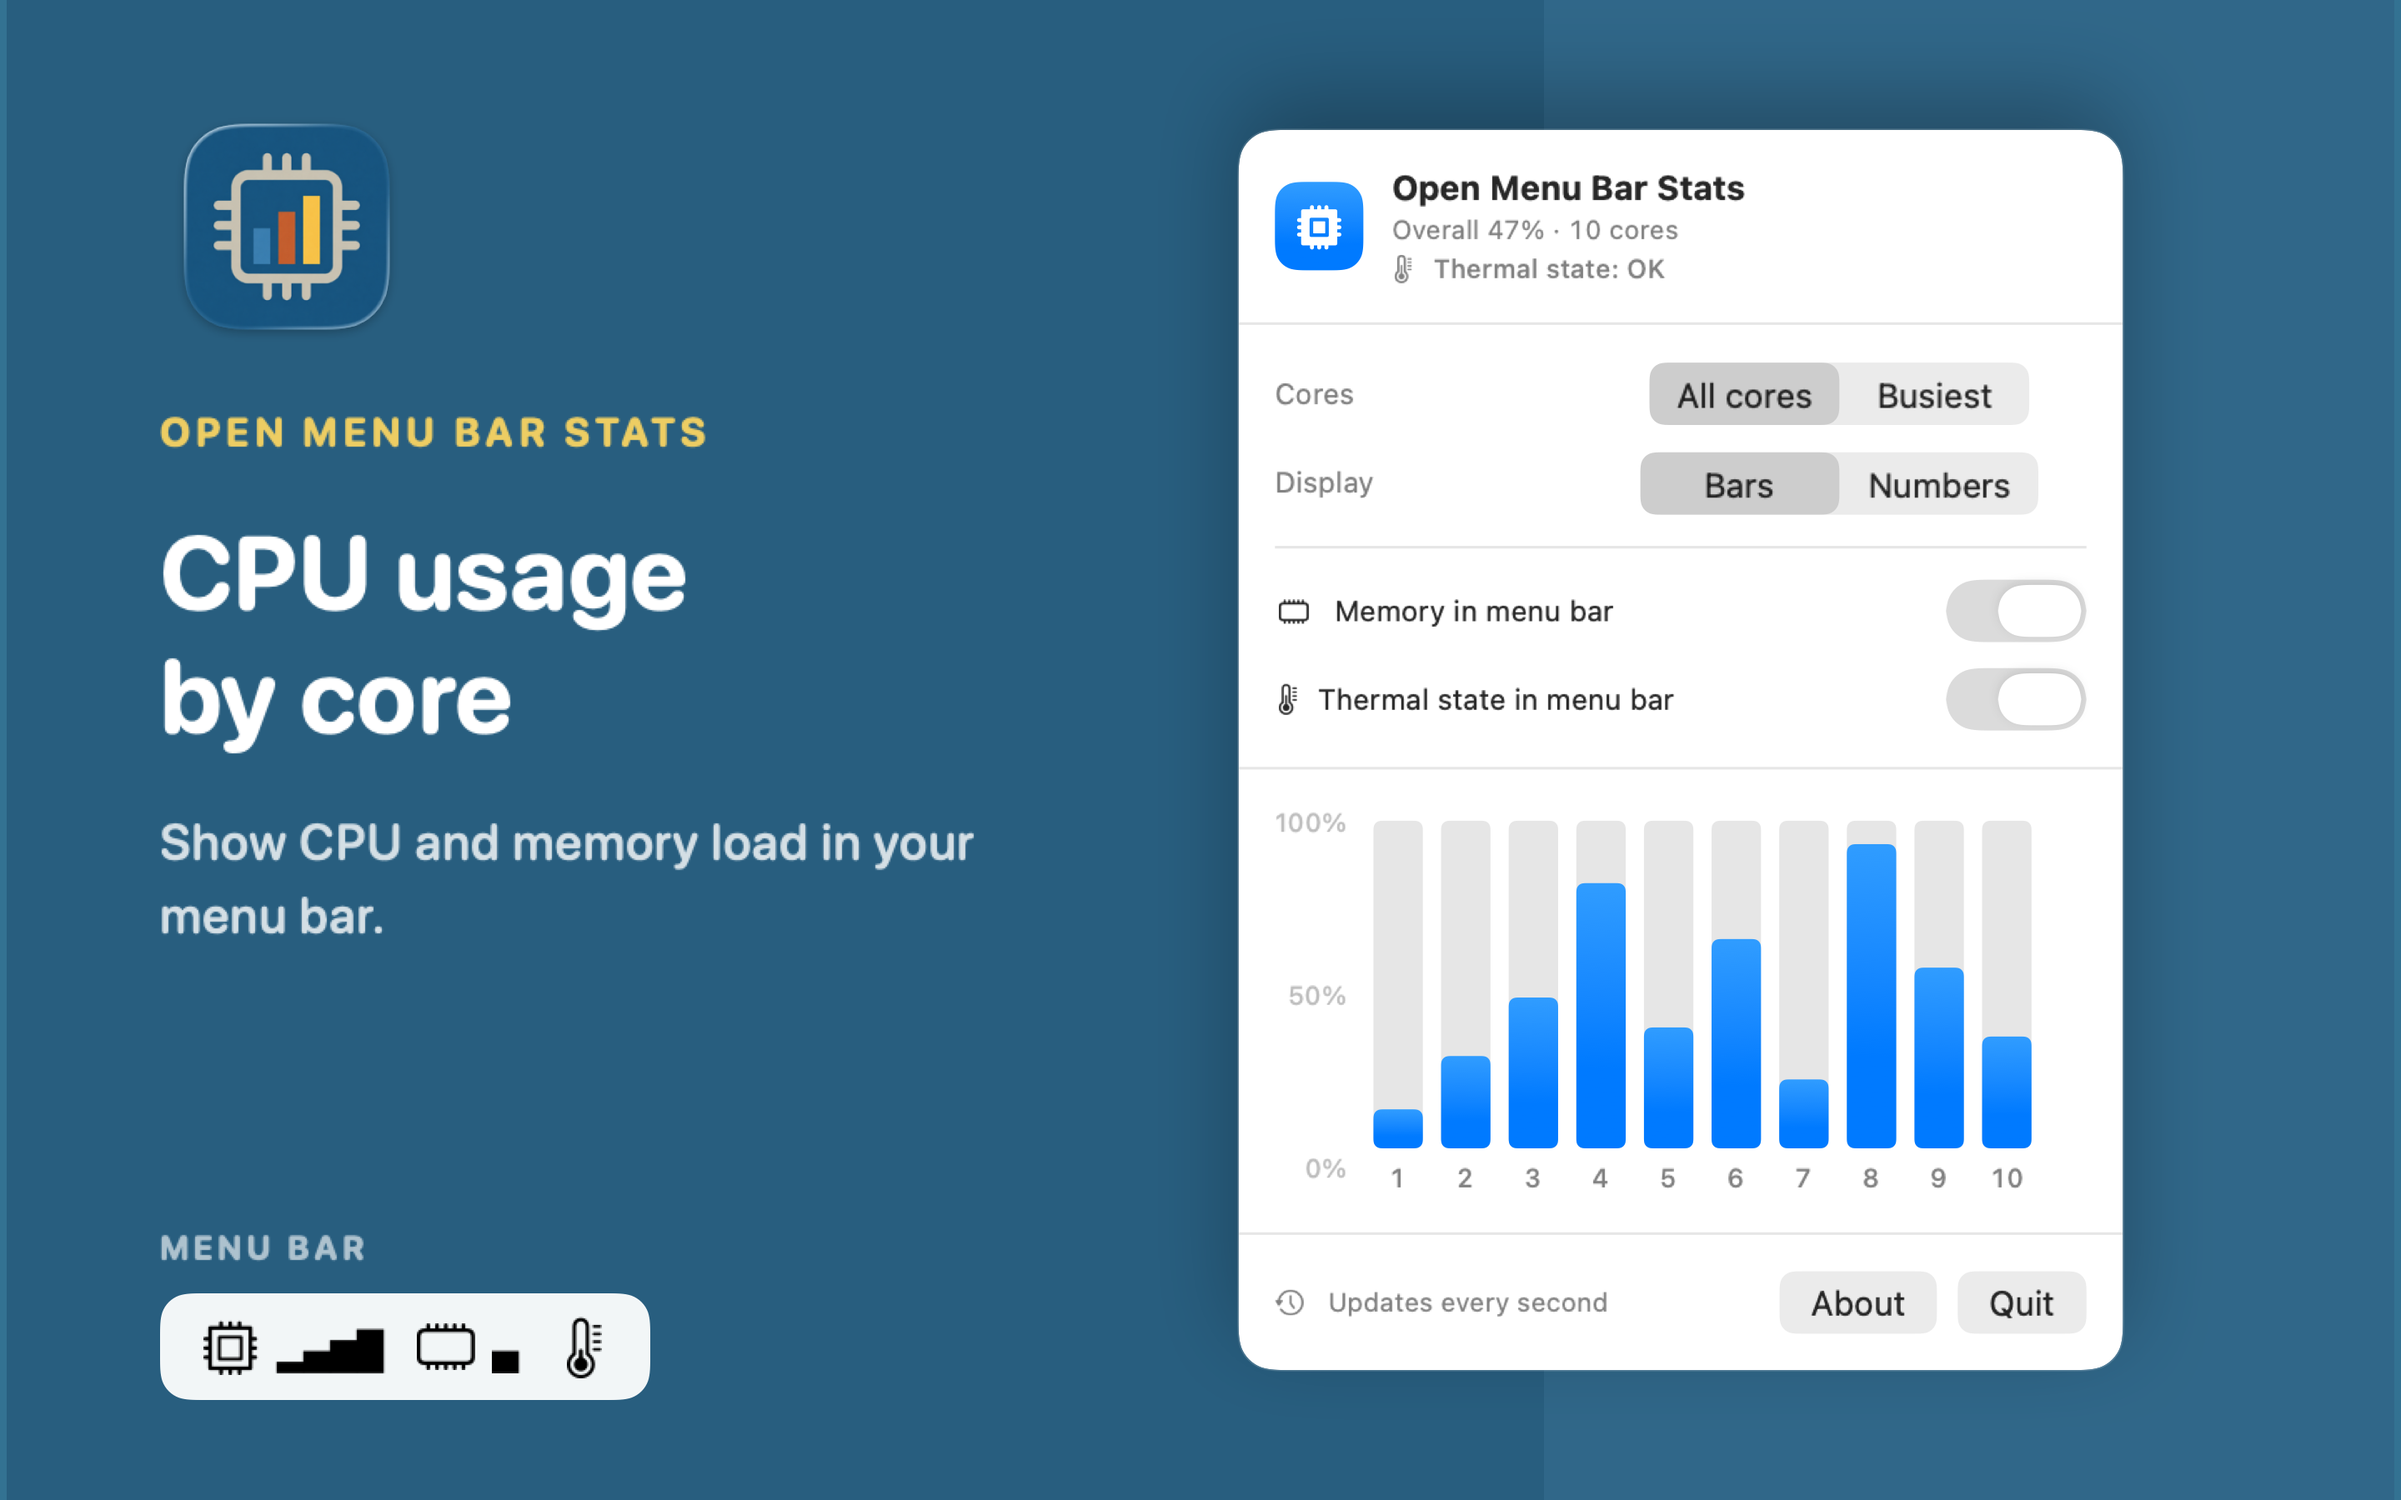
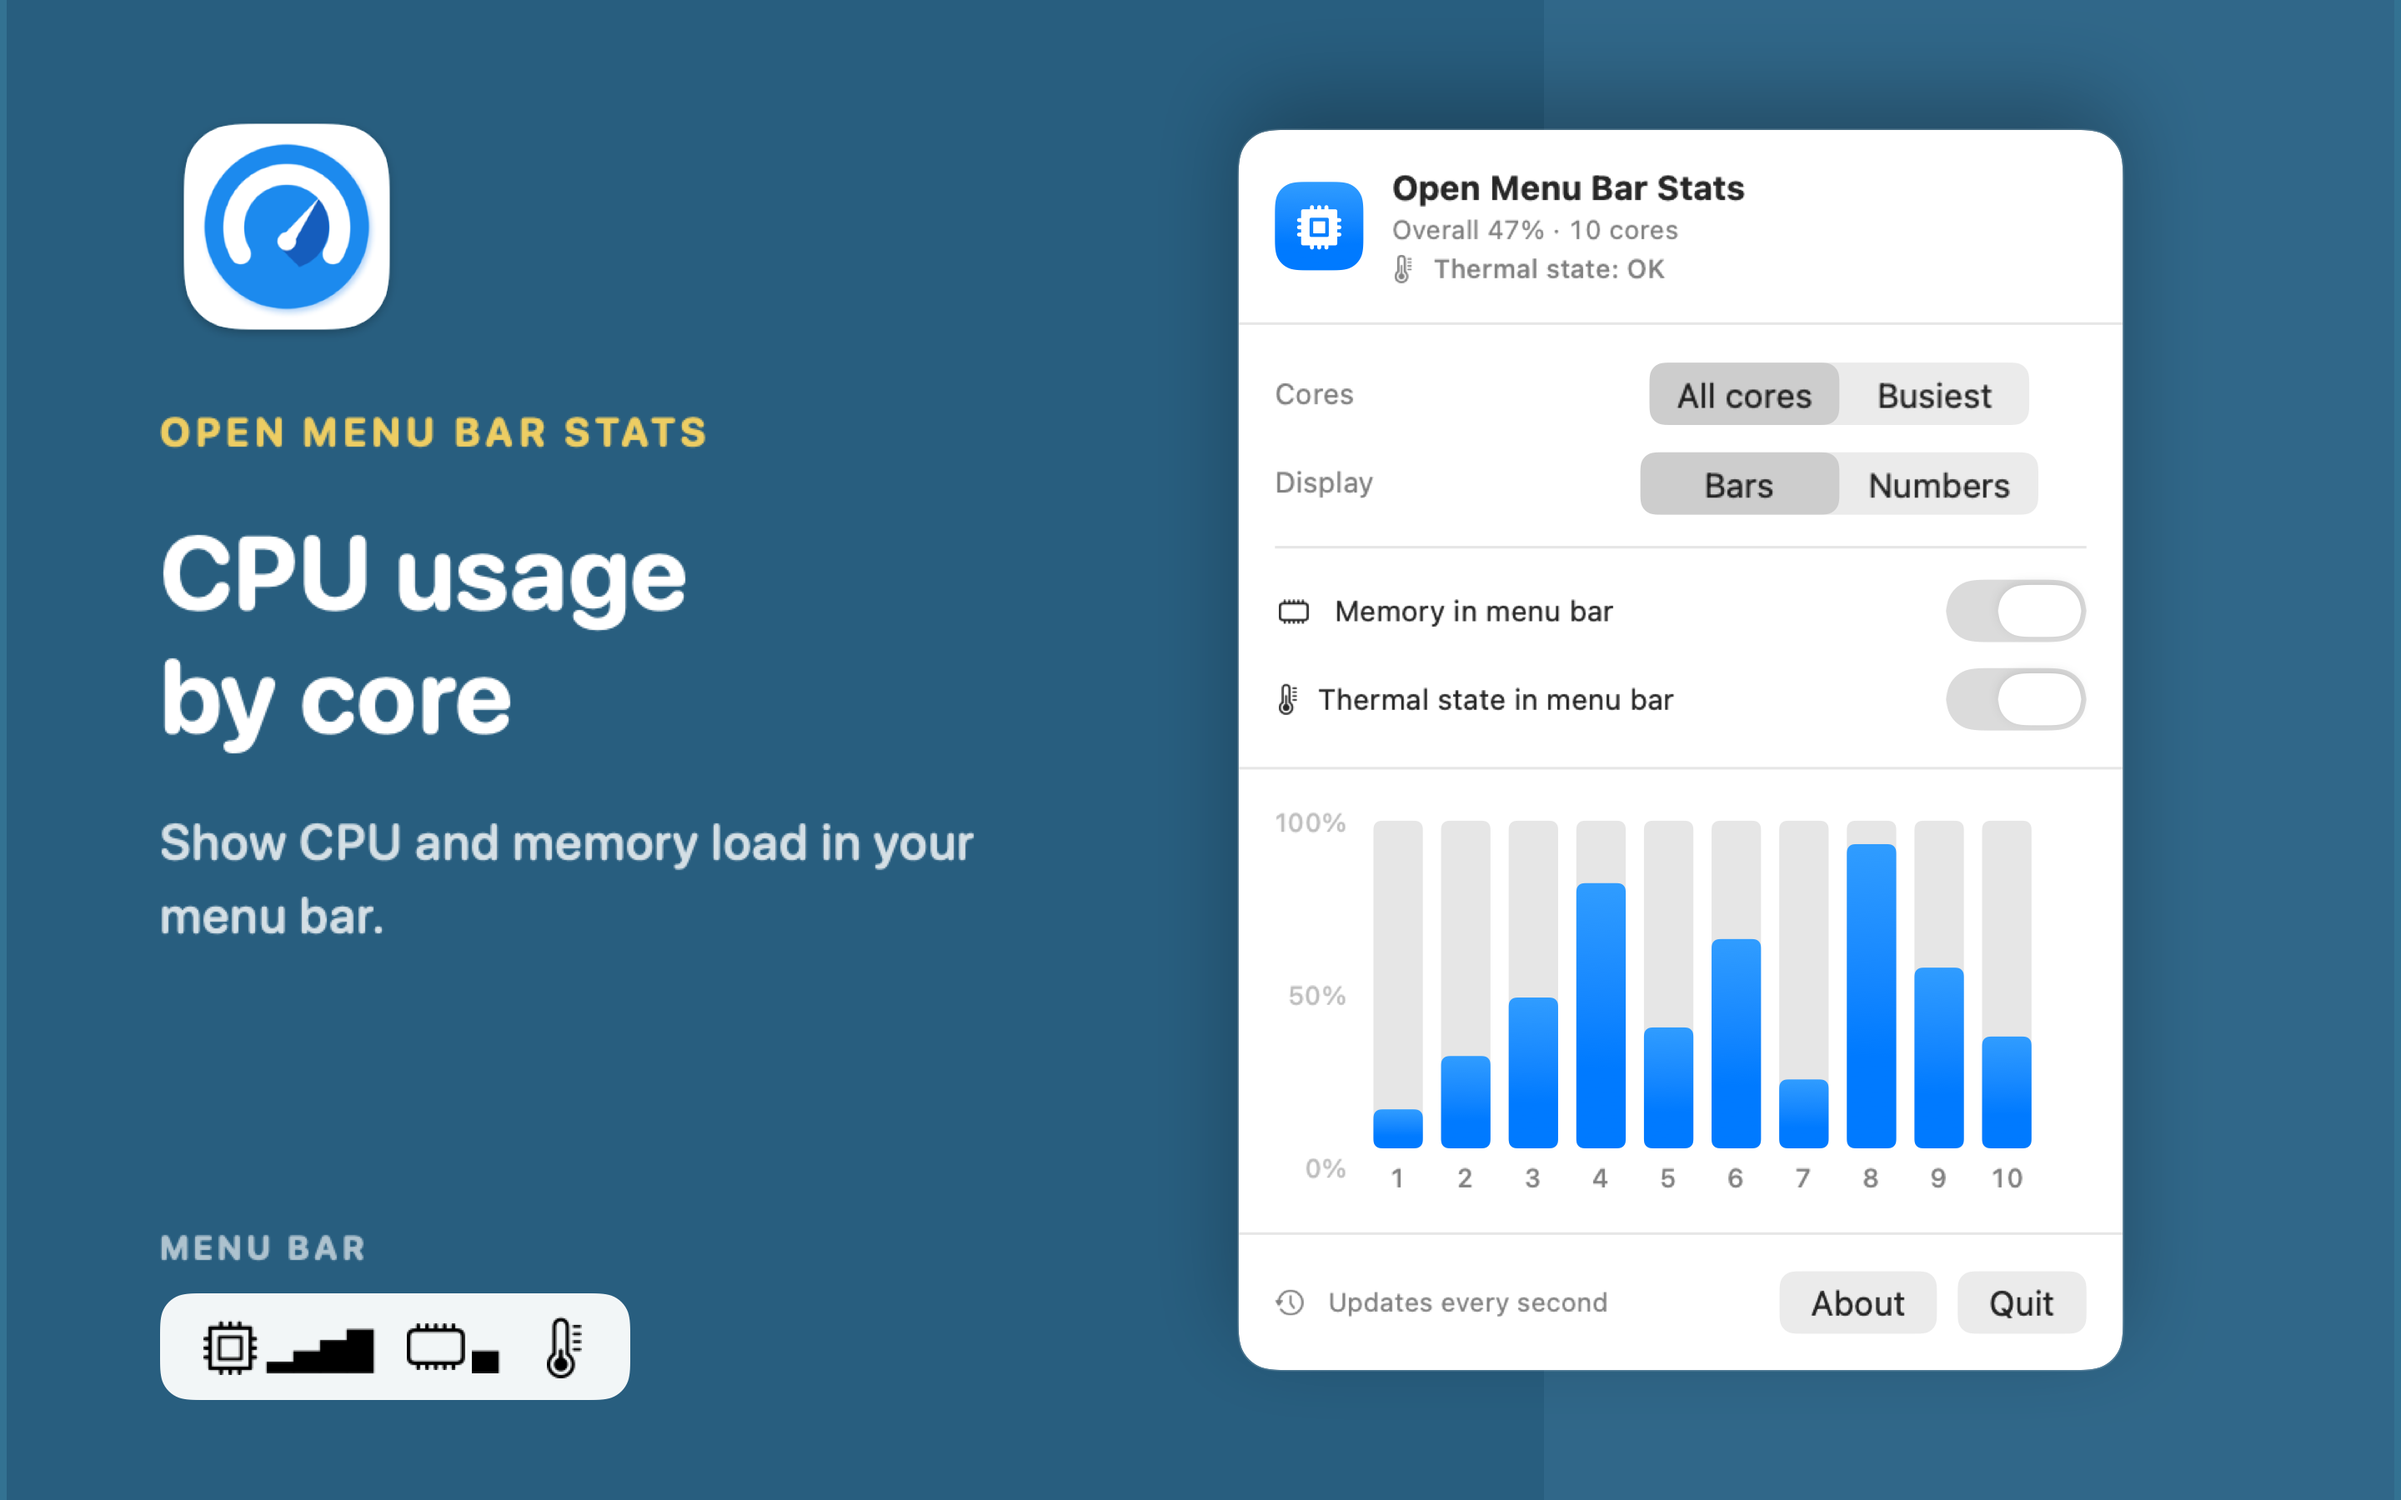
RM

Changed region(s): [[0.0625, 0.0622, 0.1875, 0.2178], [0.125, 0.8711, 0.2812, 0.9333]]

diff --git a/README.md b/README.md
@@ -21,6 +21,10 @@ Open Menu Bar Stats stays out of the way: no Dock icon, no accounts, no analytic
 - Keep your display choices between launches.
 - Accessible with VoiceOver, Increase Contrast, and Reduce Motion.
 
+## Install
+
+[Install Open Menu Bar Stats from the Mac App Store](https://apps.apple.com/us/app/open-menu-stats/id6806666233).
+
 ## Build from source
 
 Open `MenuBarStats.xcodeproj` in Xcode 26 or later, select the `MenuBarStats` scheme, and run it on **My Mac**.
